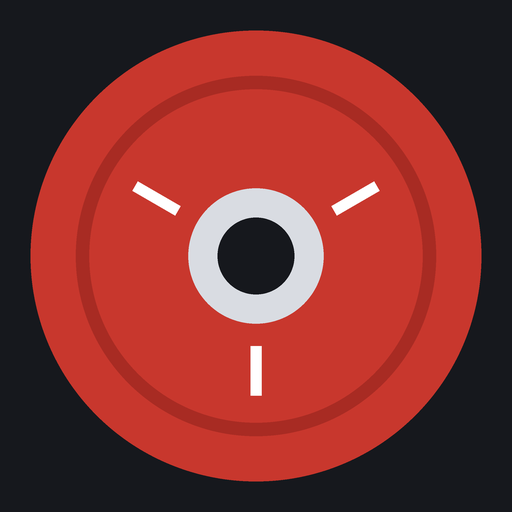
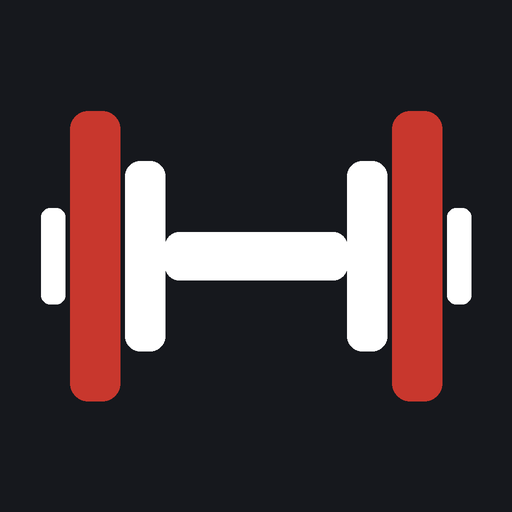
Add files via upload

diff --git a/index.html b/index.html
@@ -120,7 +120,23 @@ body.timing main .wrap{padding-bottom:120px}
 .goal b{font-family:var(--f-mono);font-weight:500;font-size:15px}
 .goal small{grid-column:1/-1;font-size:12px;color:var(--muted)}
 .goal.up b{color:var(--done)}
-.set{display:grid;grid-template-columns:44px 1fr 12px 1fr 34px;align-items:center;gap:6px}
+.set{display:grid;grid-template-columns:44px 1fr 12px 1fr 28px 30px;align-items:center;gap:5px}
+.prb{font-size:10.5px;font-weight:700;color:var(--surface);background:var(--done);border-radius:4px;padding:1px 0;text-align:center;letter-spacing:.02em}
+.field input::placeholder{color:var(--muted);opacity:.55}
+.lastsets{display:flex;flex-wrap:wrap;gap:4px 10px;font-size:12px;color:var(--muted);font-variant-numeric:tabular-nums}
+.lastsets b{font-family:var(--f-mono);font-weight:500;color:var(--ink)}
+.lastsets i{font-style:normal;font-size:11px}
+.drop{font-size:13px;font-weight:500;color:var(--p-B);padding:6px 0}
+.nag{display:flex;flex-wrap:wrap;align-items:center;gap:8px 10px;font-size:13.5px;color:var(--ink);background:var(--surface);border:1px solid var(--warn);border-radius:10px;padding:10px 12px}
+.nag span{flex:1 1 180px}
+.nag button{font-size:12.5px;font-weight:500;border:1px solid var(--line);border-radius:999px;padding:5px 12px}
+.nag .go{background:var(--warn);border-color:var(--warn);color:var(--surface)}
+.prlist{background:var(--surface);border:1px solid var(--line);border-radius:12px;display:grid}
+.prr{display:grid;grid-template-columns:44px 1fr auto;gap:8px;align-items:baseline;padding:8px 12px;border-bottom:1px solid var(--line);font-size:13.5px}
+.prr:last-child{border-bottom:0}
+.prr .d{font-size:12px;color:var(--muted);font-variant-numeric:tabular-nums}
+.prr .v{font-family:var(--f-mono);font-size:12.5px;text-align:right}
+.prr small{display:block;font-size:11.5px;color:var(--muted)}
 .tag{height:30px;border-radius:7px;border:1px solid var(--line);font-family:var(--f-mono);font-size:12px;color:var(--muted)}
 .tag.t-T{border-color:var(--p-A);color:var(--p-A);font-family:var(--f-body);font-weight:700}
 .tag.t-D{border-color:var(--p-B);color:var(--p-B);font-family:var(--f-body);font-weight:700}
@@ -129,7 +145,7 @@ body.timing main .wrap{padding-bottom:120px}
 .field{position:relative;min-width:0}
 .field input{width:100%;font:500 16px var(--f-mono);color:var(--ink);background:var(--bg);border:1px solid var(--line);border-radius:8px;padding:8px 28px 8px 10px;font-variant-numeric:tabular-nums}
 .field small{position:absolute;right:8px;top:50%;transform:translateY(-50%);font-size:11px;color:var(--muted);pointer-events:none}
-.del{width:34px;height:34px;display:grid;place-items:center;color:var(--muted);border-radius:8px}
+.del{width:30px;height:34px;display:grid;place-items:center;color:var(--muted);border-radius:8px}
 .acts{display:flex;align-items:center;gap:12px;flex-wrap:wrap}
 .add{font-size:13.5px;font-weight:500;color:var(--accent);padding:6px 0}
 .tbtn{font-size:12.5px;font-weight:500;border:1px solid var(--line);border-radius:999px;padding:4px 10px;font-variant-numeric:tabular-nums}
@@ -326,15 +342,25 @@ const SESS_DEFAULT=[
   X("s8","덤벨컬","6~8회 × 3 (고중량)","이두 메인",{t:963,r:[6,8],inc:2,rest:90}),
   X("s9","케이블 해머컬","3세트","이두",{t:972,rest:60})]}
 ];
+// 목표 세트 수(sets)와 탑세트 수(top). 영상에 세트 수가 없는 종목은 3세트로 둡니다.
+const DEF_SETS={m1:2,m6:4,t1:2,w3:2,f1:2,f3:4,s1:3},DEF_TOP={m1:1,t1:2,f1:1,s1:2};
+SESS_DEFAULT.forEach(x=>x.ex.forEach(e=>{e.sets=DEF_SETS[e.id]||3;e.top=DEF_TOP[e.id]||0}));
+const DEFMAP={};SESS_DEFAULT.forEach(x=>x.ex.forEach(e=>DEFMAP[e.id]=e));
 const ORDER=["A","B","C","D","E"];
 let SESS=[],SMAP={},EX={},routineCustom=false;
 const fin=n=>typeof n==="number"&&isFinite(n);
+function deriveTop(t){const m=String(t||"").match(/탑\s*(\d)\s*세트/);return m?Math.min(3,Number(m[1])):/탑/.test(t||"")?1:0}
+function deriveSets(t,top){if(top)return top+1;const m=String(t||"").match(/[×x]\s*(\d+)/)||String(t||"").match(/(\d+)\s*세트/);const n=m?Number(m[1]):3;return n>=1&&n<=10?n:3}
+const okInt=(n,a,b)=>Number.isInteger(n)&&n>=a&&n<=b;
 function cleanEx(e){
   if(!e||!e.id||!e.n)return null;
+  const d=DEFMAP[e.id];
+  const top=okInt(e.top,0,3)?e.top:d?d.top:deriveTop(e.tgt);
+  const sets=okInt(e.sets,1,10)?e.sets:d?d.sets:deriveSets(e.tgt,top);
   const r=Array.isArray(e.r)&&e.r.length===2&&e.r.every(n=>fin(n)&&n>0)&&e.r[0]<=e.r[1]?[e.r[0],e.r[1]]:null;
   return {id:String(e.id).slice(0,40),n:String(e.n).slice(0,40),tgt:String(e.tgt||"").slice(0,40),part:String(e.part||"").slice(0,30),note:String(e.note||"").slice(0,80),
     t:fin(e.t)&&e.t>=0?Math.round(e.t):null,r,inc:fin(e.inc)&&e.inc>=0?e.inc:0,rest:fin(e.rest)&&e.rest>0?Math.round(e.rest):90,
-    alts:Array.isArray(e.alts)?e.alts.map(a=>String(a).trim().slice(0,40)).filter(Boolean).slice(0,6):[],del:!!e.del};
+    alts:Array.isArray(e.alts)?e.alts.map(a=>String(a).trim().slice(0,40)).filter(Boolean).slice(0,6):[],sets,top,del:!!e.del};
 }
 function applyRoutine(r){
   let src=SESS_DEFAULT;routineCustom=false;
@@ -344,7 +370,7 @@ function applyRoutine(r){
       ex:x.ex.map(cleanEx).filter(e=>e&&!seen.has(e.id)&&seen.add(e.id))}});
   SMAP={};EX={};SESS.forEach(x=>{SMAP[x.id]=x;x.c="--p-"+x.id;x.ex.forEach(e=>{e.s=x.id;EX[e.id]=e})});
 }
-function routineData(){return {v:1,sessions:SESS.map(x=>({id:x.id,name:x.name,short:x.short,ex:x.ex.map(e=>{const o={id:e.id,n:e.n,tgt:e.tgt,part:e.part,note:e.note,t:e.t,r:e.r,inc:e.inc,rest:e.rest,alts:e.alts};if(e.del)o.del=true;return o})}))}}
+function routineData(){return {v:1,sessions:SESS.map(x=>({id:x.id,name:x.name,short:x.short,ex:x.ex.map(e=>{const o={id:e.id,n:e.n,tgt:e.tgt,part:e.part,note:e.note,t:e.t,r:e.r,inc:e.inc,rest:e.rest,alts:e.alts,sets:e.sets,top:e.top};if(e.del)o.del=true;return o})}))}}
 const activeEx=x=>x.ex.filter(e=>!e.del);
 applyRoutine(null);
 const PREFIX={m:"A",t:"B",w:"C",f:"D",s:"E"}; // 예전(요일 고정) 기록의 종목 id → 세션
@@ -411,6 +437,14 @@ function suggest(e,last){
   return {kg:t.kg,reps:t.reps,why:"지난번 무게·횟수 이상으로"};
 }
 const e1rm=t=>t.kg>0&&t.reps>0?Math.round(t.kg*(1+t.reps/30)*2)/2:0;
+const setE1=x=>e1rm({kg:num(x.kg),reps:num(x.reps)});
+const stepOf=e=>e.inc>0?e.inc:2.5;
+const roundTo=(v,st)=>Math.max(st,Math.round(v/st)*st);
+const BACKOFF=0.875,DROP=0.8;
+// 완료 세트 수: 웜업 제외, 이어진 드롭세트 묶음은 직전 세트에 포함
+function doneCount(list){let n=0;for(const x of list||[]){if(x.tag==="W"||x.tag==="D"||!(num(x.reps)>0))continue;n++}return n}
+function prBase(nm,k,idx){const en=((idx[nm]||{}).entries||[]).filter(x=>x.k<k);let kg=0,e1=0;for(const x of en)for(const q of x.sets){kg=Math.max(kg,num(q.kg));e1=Math.max(e1,setE1(q))}return {has:en.length>0,kg,e1}}
+const isPR=(x,base)=>base.has&&x.tag!=="W"&&num(x.kg)>0&&num(x.reps)>0&&(num(x.kg)>base.kg||setE1(x)>base.e1);
 
 // ---------- 세션 순환 ----------
 function nextSession(k){for(let i=KEYS.length-1;i>=0;i--){const x=KEYS[i];if(x<k&&docs[x].session)return ORDER[(ORDER.indexOf(docs[x].session)+1)%ORDER.length]}return ORDER[0]}
@@ -465,9 +499,17 @@ function renderPicker(k,b){
   return h;
 }
 
+const lsGet=k=>{try{return Number(localStorage.getItem(k))||0}catch(e){return 0}};
+const lsSet=(k,v)=>{try{localStorage.setItem(k,String(v))}catch(e){}};
+function backupNag(){
+  if(!IS_PWA||!KEYS.length||keyOf(view)!==keyOf(today()))return "";
+  const now=Date.now(),last=lsGet("split3-lastbackup");if(lsGet("split3-snooze")>now)return "";
+  const since=last||parseKey(KEYS[0]).getTime();if(now-since<14*864e5)return "";
+  return `<div class="nag"><span>${last?`마지막 백업이 ${Math.floor((now-last)/864e5)}일 전이에요.`:"아직 백업한 적이 없어요."} 기록은 이 휴대폰에만 있어서 백업해 두는 게 안전해요.</span><button class="go" data-act="export">지금 백업</button><button data-act="snooze">3일 뒤에</button></div>`;
+}
 function renderDay(){
-  const app=$("app"),k=keyOf(view),b=body(k);
-  if(!b.session||changing){app.innerHTML=renderPicker(k,b);return}
+  const app=$("app"),k=keyOf(view),b=body(k),nag=backupNag();
+  if(!b.session||changing){app.innerHTML=nag+renderPicker(k,b);return}
   const s=SMAP[b.session],idx=buildIndex(),act=activeEx(s);
   const shown=s.ex.filter(e=>!e.del||b.sets[e.id]||b.checks[e.id]);
   const n=act.filter(e=>b.checks[e.id]).length;
@@ -481,20 +523,25 @@ function renderDay(){
       <button class="chk" data-act="toggle" data-ex="${id}" aria-pressed="${on}" aria-label="${esc(nm)} 완료"><span><svg width="14" height="14" viewBox="0 0 24 24" fill="none" stroke="currentColor" stroke-width="3.2" stroke-linecap="round" stroke-linejoin="round"><path d="M5 12.5l4.5 4.5L19 7.5"/></svg></span></button>
       <div class="info"><span class="name">${esc(nm)}${nm!==e.n?`<span class="orig">(${esc(e.n)} 대신)</span>`:""}${e.del?`<span class="orig">(루틴에서 삭제됨)</span>`:""}</span><span class="meta">${meta}</span>${e.note?`<span class="note">${esc(e.note)}</span>`:""}</div>
       <div class="side">${e.t!=null?`<a class="vid" href="${YT}&t=${e.t}" target="_blank" rel="noopener">▶ ${pad(Math.floor(e.t/60))}:${pad(e.t%60)}</a>`:""}
-        <button class="logbtn" data-act="expand" data-ex="${id}" aria-expanded="${isOpen}">기록${my.length?` <span class="n">${my.length}</span>`:""}</button></div></div>`;
+        <button class="logbtn" data-act="expand" data-ex="${id}" aria-expanded="${isOpen}">${my.length?`세트 <span class="n">${doneCount(my)}/${e.sets}</span>`:`기록 · ${e.sets}세트`}</button></div></div>`;
     if(isOpen){
       const best=((idx[nm]||{}).entries||[]).reduce((m,x)=>Math.max(m,topSet(x.sets).kg),0);
       const vol=my.filter(x=>x.tag!=="W").reduce((a,x)=>a+num(x.kg)*num(x.reps),0);
-      h+=`<div class="sets"><div class="hist">${last?`지난번 ${md(last.k)} <b>${fmtSet(topSet(last.sets))}</b> · ${last.sets.length}세트`:"지난 기록 없음"}${best?` · 최고 <b>${fmt(best)}kg</b>`:""}</div>`;
-      if(sg)h+=`<div class="goal${sg.up?" up":""}"><span>오늘 목표</span><b>${fmtSet(sg)}</b><small>${esc(sg.why)}</small></div>`;
-      my.forEach((x,i)=>{h+=`<div class="set">
+      const base=prBase(nm,k,idx);
+      h+=`<div class="sets"><div class="hist">${last?`지난번 ${md(last.k)} · ${last.sets.length}세트`:"지난 기록 없음"}${best?` · 최고 <b>${fmt(best)}kg</b>`:""} · 오늘 <b>${doneCount(my)}/${e.sets}</b>세트</div>`;
+      if(last)h+=`<div class="lastsets">${last.sets.map((q,j)=>`<span><i>${q.tag?TAG[q.tag]:j+1}</i> <b>${fmtSet({kg:num(q.kg),reps:num(q.reps)})}</b></span>`).join("")}</div>`;
+      if(sg)h+=`<div class="goal${sg.up?" up":""}"><span>오늘 목표</span><b>${e.top?"탑 ":""}${fmtSet(sg)}</b><small>${esc(sg.why)}${e.top&&sg.kg>0?` · 백오프는 약 ${fmt(roundTo(sg.kg*BACKOFF,stepOf(e)))}kg`:""}</small></div>`;
+      let j=0;
+      my.forEach((x,i)=>{const g=x.tag==="W"?null:(last&&last.sets[j])||null;if(x.tag!=="W")j++;const pr=isPR(x,base);
+        h+=`<div class="set">
         <button class="tag t-${x.tag||"N"}" data-act="tag" data-ex="${id}" data-i="${i}" aria-label="${i+1}세트 종류 바꾸기">${x.tag?TAG[x.tag]:i+1}</button>
-        <label class="field"><input id="kg-${k}-${id}-${i}" inputmode="decimal" enterkeyhint="next" data-act="kg" data-ex="${id}" data-i="${i}" value="${esc(x.kg)}" aria-label="${i+1}세트 중량"><small>kg</small></label>
+        <label class="field"><input id="kg-${k}-${id}-${i}" inputmode="decimal" enterkeyhint="next" data-act="kg" data-ex="${id}" data-i="${i}" value="${esc(x.kg)}" placeholder="${g&&num(g.kg)>0?esc(fmt(num(g.kg))):""}" aria-label="${i+1}세트 중량"><small>kg</small></label>
         <span class="x">×</span>
-        <label class="field"><input id="rp-${k}-${id}-${i}" inputmode="numeric" enterkeyhint="done" data-act="reps" data-ex="${id}" data-i="${i}" value="${esc(x.reps)}" aria-label="${i+1}세트 횟수"><small>회</small></label>
+        <label class="field"><input id="rp-${k}-${id}-${i}" inputmode="numeric" enterkeyhint="done" data-act="reps" data-ex="${id}" data-i="${i}" value="${esc(x.reps)}" placeholder="${g&&num(g.reps)>0?esc(num(g.reps)):sg&&sg.reps?esc(sg.reps):""}" aria-label="${i+1}세트 횟수"><small>회</small></label>
+        ${pr?`<span class="prb" title="신기록">PR</span>`:"<span></span>"}
         <button class="del" data-act="delset" data-ex="${id}" data-i="${i}" aria-label="${i+1}세트 삭제"><svg width="16" height="16" viewBox="0 0 24 24" fill="none" stroke="currentColor" stroke-width="2" stroke-linecap="round"><path d="M6 6l12 12M18 6L6 18"/></svg></button></div>`});
-      h+=`<div class="acts"><button class="add" data-act="addset" data-ex="${id}">+ 세트 추가</button><button class="tbtn" data-act="timer" data-ex="${id}">⏱ ${mmss(e.rest)} 휴식</button>${vol?`<span class="vol">볼륨 ${vol.toLocaleString()}kg</span>`:""}</div>`;
-      if(my.length)h+=`<div class="legend">세트 번호를 누르면 탑 → 드롭 → 웜업으로 바뀌어요. 웜업은 볼륨·최고 기록에서 빠져요. 횟수를 입력하면 휴식 타이머가 자동으로 시작돼요.</div>`;
+      h+=`<div class="acts"><button class="add" data-act="addset" data-ex="${id}">+ 세트 추가</button>${my.length?`<button class="drop" data-act="adddrop" data-ex="${id}">+ 드롭</button>`:""}<button class="tbtn" data-act="timer" data-ex="${id}">⏱ ${mmss(e.rest)}</button>${vol?`<span class="vol">볼륨 ${vol.toLocaleString()}kg</span>`:""}</div>`;
+      if(my.length)h+=`<div class="legend">${e.top?`탑세트 다음 세트는 백오프 무게(탑의 약 ${Math.round(BACKOFF*1000)/10}%)로, `:""}'+ 드롭'은 직전 세트의 약 ${DROP*100}% 무게로 채워져요. 무게는 미리 채워지고, 횟수는 한 만큼 입력하면 돼요(흐린 숫자는 지난번 같은 세트). 세트 번호를 누르면 탑 → 드롭 → 웜업으로 바뀌고, 웜업·드롭은 세트 수에서 빠져요.</div>`;
       const opts=[e.n,...e.alts];if(!opts.includes(nm))opts.push(nm);
       h+=`<div class="alt"><span>기구가 없으면 교체</span>${opts.map(v=>`<button class="chip${v===nm?" on":""}" data-act="setalt" data-ex="${id}" data-v="${esc(v)}">${esc(v)}</button>`).join("")}
         <span class="altc"><input id="alt-${k}-${id}" placeholder="다른 종목 직접 입력" enterkeyhint="done" aria-label="교체할 종목 이름"><button data-act="altcustom" data-ex="${id}">적용</button></span></div>
@@ -503,7 +550,7 @@ function renderDay(){
     h+=`</div>`;
   }
   h+=`</div><button class="addex" data-act="newex" data-s="${s.id}">+ 이 세션에 종목 추가</button><div class="memo"><label for="memo-${k}">메모</label><textarea id="memo-${k}" data-act="memo" placeholder="컨디션, 통증, 다음에 바꿀 점">${esc(b.memo)}</textarea></div>`;
-  app.innerHTML=h;
+  app.innerHTML=nag+h;
 }
 
 function spark(vals,c){
@@ -517,6 +564,10 @@ function renderProgress(){
   const idx=buildIndex(),tk=keyOf(today()),from=keyOf(addDays(today(),-27));
   const done=KEYS.filter(k=>k<=tk&&docs[k].session),d28=done.filter(k=>k>=from);
   let h=`<div class="stats"><div class="stat"><b>${done.length}</b><span>총 운동</span></div><div class="stat"><b>${d28.length}</b><span>최근 4주</span></div><div class="stat"><b>${(d28.length/4).toFixed(1)}</b><span>주 평균 (목표 5)</span></div></div>`;
+  const prs=[];for(const [nm,o] of Object.entries(idx)){let bk=0,be=0;o.entries.forEach((x,i)=>{let tk2=0,te=0,tset=null,eset=null;for(const q of x.sets){if(num(q.kg)>tk2){tk2=num(q.kg);tset=q}if(setE1(q)>te){te=setE1(q);eset=q}}
+    if(i>0){if(tk2>bk)prs.push({k:x.k,nm,s:tset,kind:"최고 무게",c:SMAP[o.sess].c});else if(te>be)prs.push({k:x.k,nm,s:eset,kind:`추정 1RM ${fmt(te)}kg`,c:SMAP[o.sess].c})}bk=Math.max(bk,tk2);be=Math.max(be,te)})}
+  prs.sort((a,b)=>a.k<b.k?1:a.k>b.k?-1:0);
+  h+=`<div class="sec"><h3>최근 신기록</h3>${prs.length?`<div class="prlist">${prs.slice(0,8).map(x=>`<div class="prr"><span class="d">${md(x.k)}</span><span>${esc(x.nm)}<small>${x.kind}</small></span><span class="v">${fmtSet({kg:num(x.s.kg),reps:num(x.s.reps)})}</span></div>`).join("")}</div>`:`<p class="hint">같은 종목을 두 번 이상 기록하면, 지난번보다 무거운 무게나 더 높은 추정 1RM을 낸 세트가 여기 모여요.</p>`}</div>`;
   const cnt=SESS.map(s=>d28.filter(k=>docs[k].session===s.id).length),mx=Math.max(4,...cnt);
   h+=`<div class="sec"><h3>최근 4주 부위 균형</h3><div class="bal">`;
   SESS.forEach((s,i)=>{const x=lastDone(s.id,keyOf(addDays(today(),1)));const g=x?diffDays(x,tk):null;
@@ -546,13 +597,13 @@ function renderProgress(){
     h+=`</div>`;
   }
   h+=`</div>`;
-  if(IS_PWA)h+=`<div class="sec"><h3>백업</h3><p class="hint">기록은 이 휴대폰 안에만 있어요. 가끔 백업 파일을 저장해 두면 휴대폰을 바꿔도 되살릴 수 있어요.</p><div class="backup"><button data-act="export">기록 백업 파일 저장</button><label for="importFile">백업 파일 불러오기</label></div></div>`;
+  if(IS_PWA){const lb=lsGet("split3-lastbackup");h+=`<div class="sec"><h3>백업</h3><p class="hint">기록은 이 휴대폰 안에만 있어요. 마지막 백업: <b>${lb?`${md(keyOf(new Date(lb)))} (${agoText(Math.floor((Date.now()-lb)/864e5))})`:"아직 없음"}</b>. 2주가 지나면 운동 화면에서 알려 드려요.</p><div class="backup"><button data-act="export">기록 백업 파일 저장</button><label for="importFile">백업 파일 불러오기</label></div></div>`}
   $("app").innerHTML=h;
 }
 
 // ---------- 루틴 편집 ----------
 let rsel="A",edState=null;
-function exMeta(e){return [e.tgt,e.part,e.r?`목표 ${e.r[0]}~${e.r[1]}회${e.inc?` · +${fmt(e.inc)}kg`:""}`:"",`휴식 ${mmss(e.rest)}`].filter(Boolean).map(esc).join(" · ")}
+function exMeta(e){return [`${e.sets}세트${e.top?` (탑 ${e.top})`:""}`,e.tgt,e.part,e.r?`목표 ${e.r[0]}~${e.r[1]}회${e.inc?` · +${fmt(e.inc)}kg`:""}`:"",`휴식 ${mmss(e.rest)}`].filter(Boolean).map(esc).join(" · ")}
 function renderRoutine(){
   const s=SMAP[rsel],act=activeEx(s);
   let h=`<div class="rsess" role="tablist">${SESS.map(x=>`<button class="rs${x.id===rsel?" on":""}" style="--c:var(${x.c})" data-act="rsel" data-s="${x.id}" aria-selected="${x.id===rsel}">${esc(x.short)}</button>`).join("")}</div>`;
@@ -584,13 +635,15 @@ function openEditor(st){
   if(st.kind==="sess"){const s=SMAP[st.sid];$("edTitle").textContent="세션 이름 바꾸기";$("edDel").hidden=true;
     f=fld("ed-sname","세션 이름",s.name,'maxlength="30" autocomplete="off"')+fld("ed-sshort","짧은 이름 (최대 4자)",s.short,'maxlength="4" autocomplete="off"',"주간 달력과 기록 탭에 표시돼요");
   }else{
-    const e=st.id?EX[st.id]:{n:"",tgt:"",part:"",note:"",t:null,r:null,inc:0,rest:90,alts:[]};
+    const e=st.id?EX[st.id]:{n:"",tgt:"",part:"",note:"",t:null,r:null,inc:0,rest:90,alts:[],sets:3,top:0};
     $("edTitle").textContent=st.id?"종목 수정":`${SMAP[st.sid].name}에 종목 추가`;$("edDel").hidden=!st.id;
     f=fld("ed-n","종목 이름 *",e.n,'maxlength="40" autocomplete="off" enterkeyhint="next"')
      +fld("ed-tgt","목표 (화면 표시용)",e.tgt,'maxlength="40" placeholder="예: 10~12회 × 3" autocomplete="off"')
      +fld("ed-part","타깃 부위",e.part,'maxlength="30" placeholder="예: 광배" autocomplete="off"')
      +`<div class="efrow">${fld("ed-lo","반복 최소",e.r?e.r[0]:"",'inputmode="numeric" placeholder="예: 8"')}${fld("ed-hi","반복 최대",e.r?e.r[1]:"",'inputmode="numeric" placeholder="예: 12"')}${fld("ed-inc","증량 kg",e.inc||"",'inputmode="decimal" placeholder="예: 2.5"')}</div>`
      +`<small style="font-size:11.5px;color:var(--muted);margin-top:-6px">반복 범위를 넣으면 '오늘 목표'를 계산해요. 최대 횟수에 닿으면 증량 kg만큼 올리라고 제안해요.</small>`
+     +`<div class="efrow" style="grid-template-columns:1fr 1fr">${fld("ed-sets","목표 세트 수",e.sets,'inputmode="numeric" placeholder="3"')}<label class="ef" for="ed-top"><span>탑세트 수</span><select id="ed-top">${[0,1,2,3].map(v=>`<option value="${v}"${v===e.top?" selected":""}>${v?v+"세트":"없음"}</option>`).join("")}</select></label></div>`
+     +`<small style="font-size:11.5px;color:var(--muted);margin-top:-6px">목표 세트를 채우면 자동으로 완료 체크돼요. 탑세트를 정하면 첫 세트가 탑으로 표시되고, 그다음 세트는 백오프 무게로 채워져요.</small>`
      +`<label class="ef" for="ed-rest"><span>세트 사이 휴식</span><select id="ed-rest">${[...new Set([...REST_OPTS,e.rest])].sort((a,b)=>a-b).map(v=>`<option value="${v}"${v===e.rest?" selected":""}>${mmss(v)}</option>`).join("")}</select></label>`
      +fld("ed-alts","대체 종목 (쉼표로 구분)",e.alts.join(", "),'maxlength="200" placeholder="예: 바벨로우, 덤벨로우" autocomplete="off"',"기구가 차 있을 때 바로 바꿀 수 있어요")
      +fld("ed-note","메모",e.note,'maxlength="80" placeholder="예: 마지막 세트 드롭세트" autocomplete="off"')
@@ -614,7 +667,8 @@ $("edForm").addEventListener("submit",ev=>{
   if(lo||hi){const a=Number(lo),b=Number(hi);if(!(a>0&&b>0&&Number.isInteger(a)&&Number.isInteger(b)&&a<=b)){edErr("반복 범위는 최소·최대를 둘 다 정수로, 최소 ≤ 최대가 되게 넣어 주세요.");return}r=[a,b]}
   const incS=v("ed-inc").replace(",",".");const inc=incS===""?0:Number(incS);if(!(inc>=0)||inc>50){edErr("증량 kg은 0~50 사이 숫자로 넣어 주세요.");return}
   const tS=v("ed-t");let t=null;if(tS){const m=tS.match(/^(\d{1,2}):?(\d{2})$/);if(!m||Number(m[2])>59){edErr("영상 위치는 07:20처럼 분:초로 넣어 주세요.");return}t=Number(m[1])*60+Number(m[2])}
-  const fields={n,tgt:v("ed-tgt"),part:v("ed-part"),note:v("ed-note"),r,inc,rest:Number($("ed-rest").value)||90,t,alts:v("ed-alts").split(/[,，]/).map(x=>x.trim()).filter(x=>x&&x!==n)};
+  const setsN=Number(v("ed-sets")||3);if(!okInt(setsN,1,10)){edErr("목표 세트 수는 1~10 사이 정수로 넣어 주세요.");return}
+  const fields={sets:setsN,top:Number($("ed-top").value)||0,n,tgt:v("ed-tgt"),part:v("ed-part"),note:v("ed-note"),r,inc,rest:Number($("ed-rest").value)||90,t,alts:v("ed-alts").split(/[,，]/).map(x=>x.trim()).filter(x=>x&&x!==n)};
   if(edState.id){Object.assign(EX[edState.id],fields);toast("종목을 수정했어요")}
   else{const id="u"+Date.now().toString(36)+Math.random().toString(36).slice(2,6);SMAP[sid].ex.push({id,...fields});toast(`${n}을(를) 추가했어요`)}
   closeEditor();saveRoutine();
@@ -683,6 +737,9 @@ function tick(){
 setInterval(()=>{if(timer)tick()},250);
 function restoreTimer(){try{const t=JSON.parse(localStorage.getItem("split3-timer")||"null");if(t&&t.end>Date.now()-15000){timer=t;tick()}}catch(e){}}
 
+// 목표 세트 수를 채우는 순간 완료 체크 (직접 해제하면 다시 체크하지 않음)
+function autoCheck(b,id,before){const e=EX[id],after=doneCount(b.sets[id]);if(e&&before<e.sets&&after>=e.sets&&!b.checks[id]){b.checks[id]=true;return true}return false}
+
 // ---------- 입력 ----------
 document.addEventListener("click",ev=>{
   const t=ev.target.closest("[data-act]");if(!t||t.tagName==="INPUT"||t.tagName==="TEXTAREA")return;
@@ -698,6 +755,7 @@ document.addEventListener("click",ev=>{
   if(act==="tstop"){stopTimer();return}
   if(act==="timer"){const b=body(k);startTimer(EX[id].rest,exName(id,b));return}
   if(act==="export"){exportBackup();return}
+  if(act==="snooze"){lsSet("split3-snooze",Date.now()+3*864e5);render();return}
   if(act==="rsel"){rsel=t.dataset.s;render();return}
   if(act==="editsess"){openEditor({kind:"sess",sid:rsel});return}
   if(act==="editex"){openEditor({kind:"ex",id});return}
@@ -722,17 +780,27 @@ document.addEventListener("click",ev=>{
     return;
   }
   if(act==="toggle"){if(b.checks[id])delete b.checks[id];else b.checks[id]=true;persist(k,b);return}
-  if(act==="addset"){
-    const list=b.sets[id]||(b.sets[id]=[]),nm=exName(id,b);
-    let kg="",reps="";
-    if(list.length){const p=list[list.length-1];kg=p.kg;reps=p.reps}
-    else{const en=((buildIndex()[nm]||{}).entries||[]).filter(x=>x.k<k),sg=suggest(EX[id],en[en.length-1]);if(sg){kg=sg.kg>0?sg.kg:"";reps=sg.reps||""}}
-    list.push({kg,reps});persist(k,b);
+  if(act==="addset"||act==="adddrop"){
+    const e=EX[id],list=b.sets[id]||(b.sets[id]=[]),nm=exName(id,b),st=stepOf(e);
+    const p=list[list.length-1],tops=list.filter(x=>x.tag==="T").length;
+    const fromSuggest=()=>{const en=((buildIndex()[nm]||{}).entries||[]).filter(x=>x.k<k),l=en[en.length-1],sg=suggest(e,l);if(sg)return {kg:sg.kg>0?sg.kg:"",reps:sg.reps||""};return {kg:"",reps:""}};
+    let row;
+    if(act==="adddrop"){if(!p)return;row={kg:num(p.kg)>0?roundTo(num(p.kg)*DROP,st):p.kg,reps:p.reps,tag:"D"}}
+    else if(!p){row=fromSuggest();if(e.top)row.tag="T"}
+    else if(p.tag==="W"){row=e.top&&!tops?{...fromSuggest(),tag:"T"}:{kg:p.kg,reps:p.reps}}
+    else if(p.tag==="T"&&tops<e.top){row={kg:p.kg,reps:p.reps,tag:"T"}}
+    else if(p.tag==="T"){row={kg:num(p.kg)>0?roundTo(num(p.kg)*BACKOFF,st):p.kg,reps:num(p.reps)>0?num(p.reps)+2:p.reps}}
+    else if(p.tag==="D"){const q=[...list].reverse().find(x=>x.tag!=="D"&&x.tag!=="W")||p;row={kg:q.kg,reps:q.reps}}
+    else row={kg:p.kg,reps:p.reps};
+    row.reps="";  // 횟수는 실제로 한 만큼 직접 입력 (입력하는 순간 세트 완료·타이머·신기록 판정)
+    list.push(row);persist(k,b);
     requestAnimationFrame(()=>{const el=$(`kg-${k}-${id}-${list.length-1}`);if(el){el.focus();el.select&&el.select()}});
     return;
   }
   if(act==="delset"){const list=b.sets[id]||[];list.splice(Number(t.dataset.i),1);if(!list.length)delete b.sets[id];persist(k,b);return}
-  if(act==="tag"){const s=(b.sets[id]||[])[Number(t.dataset.i)];if(!s)return;const nt=TAG_NEXT[s.tag||""];if(nt)s.tag=nt;else delete s.tag;persist(k,b);return}
+  if(act==="tag"){const list=b.sets[id]||[],i=Number(t.dataset.i),s=list[i];if(!s)return;const before=doneCount(list);const nt=TAG_NEXT[s.tag||""];if(nt)s.tag=nt;else delete s.tag;
+    const pv=list[i-1];if(s.tag==="D"&&pv&&num(pv.kg)>0&&num(s.kg)===num(pv.kg))s.kg=roundTo(num(pv.kg)*DROP,stepOf(EX[id]));
+    if(autoCheck(b,id,before))toast(`${exName(id,b)} ${EX[id].sets}세트 완료`);persist(k,b);return}
   if(act==="setalt"){const v=t.dataset.v;if(v===EX[id].n)delete b.alts[id];else b.alts[id]=v;persist(k,b);return}
   if(act==="altcustom"){const v=($(`alt-${k}-${id}`).value||"").trim().slice(0,40);if(!v){toast("교체할 종목 이름을 입력해 주세요");return}
     document.activeElement&&document.activeElement.blur&&document.activeElement.blur();b.alts[id]=v;persist(k,b);return}
@@ -746,8 +814,13 @@ document.addEventListener("change",ev=>{
   const v=t.value.trim().replace(",",".");const n=v===""?"":Number(v);
   if(v!==""&&(!isFinite(n)||n<0)){t.value=s[t.dataset.act]??"";return}
   if(s[t.dataset.act]===n)return;
-  s[t.dataset.act]=n;persist(k,b,true);
-  if(t.dataset.act==="reps"&&n>0&&s.tag!=="W")startTimer(EX[id].rest,exName(id,b));
+  const nm=exName(id,b),base=prBase(nm,k,buildIndex()),wasPR=isPR(s,base),before=doneCount(list);
+  s[t.dataset.act]=n;
+  const nowPR=isPR(s,base),done=autoCheck(b,id,before);
+  persist(k,b,true);
+  if(nowPR&&!wasPR)toast(`신기록! ${nm} ${fmtSet({kg:num(s.kg),reps:num(s.reps)})}${done?` · ${EX[id].sets}세트 완료`:""}`);
+  else if(done)toast(`${nm} ${EX[id].sets}세트 완료`);
+  if(t.dataset.act==="reps"&&n>0&&s.tag!=="W")startTimer(EX[id].rest,nm);
 });
 document.addEventListener("keydown",ev=>{
   const t=ev.target;if(ev.key!=="Enter"||!t.id)return;
@@ -759,10 +832,10 @@ document.addEventListener("focusout",()=>setTimeout(()=>{if(pendingRender)render
 async function exportBackup(){
   const data=JSON.stringify({app:"split3-log",version:3,exportedAt:new Date().toISOString(),days:docs,routine:routineCustom?routineData():null});
   const name=`운동일지-백업-${keyOf(today())}.json`,file=new File([data],name,{type:"application/json"});
-  try{if(navigator.canShare&&navigator.canShare({files:[file]})){await navigator.share({files:[file],title:name});toast("백업 파일을 공유했어요");return}}
+  try{if(navigator.canShare&&navigator.canShare({files:[file]})){await navigator.share({files:[file],title:name});lsSet("split3-lastbackup",Date.now());toast("백업 파일을 저장했어요");render();return}}
   catch(e){if(e&&e.name==="AbortError")return}
   const a=document.createElement("a");a.href=URL.createObjectURL(file);a.download=name;document.body.appendChild(a);a.click();
-  setTimeout(()=>{URL.revokeObjectURL(a.href);a.remove()},1000);toast("백업 파일을 저장했어요");
+  setTimeout(()=>{URL.revokeObjectURL(a.href);a.remove()},1000);lsSet("split3-lastbackup",Date.now());toast("백업 파일을 저장했어요");render();
 }
 $("importFile").addEventListener("change",async ev=>{
   const f=ev.target.files&&ev.target.files[0];ev.target.value="";if(!f||!backend||!backend.saveAll)return;

diff --git a/sw.js b/sw.js
@@ -1,6 +1,6 @@
 // 운동일지 오프라인 지원: 앱 파일을 저장해 두고, 인터넷이 없어도 열리게 합니다.
 // 앱을 수정해서 다시 올릴 때는 아래 버전 숫자를 하나 올려 주세요.
-const CACHE = "split3-v3";
+const CACHE = "split3-v5";
 const SHELL = ["./", "./index.html", "./manifest.webmanifest",
   "./icons/apple-touch-icon.png", "./icons/icon-192.png", "./icons/icon-512.png"];
 

diff --git a/README.md b/README.md
@@ -6,6 +6,11 @@
   고르지 않은 날은 휴식이고, 다음 추천은 마지막으로 한 세션 다음부터 이어져요. 3일 연속 운동하면 휴식을 권해요.
 - **세션 변경**: 이미 고른 세션은 "세션 변경"으로 바꾸거나 휴식으로 돌릴 수 있어요.
 - **오늘 목표**: 지난 기록을 보고 다음 목표를 제안해요. 목표 반복 상단에 도달하면 증량(예: 벤치 8회 → +5kg), 아니면 같은 무게로 1회 더.
+- **세트 목표**: 종목마다 목표 세트 수가 있고(루틴 탭에서 변경), 횟수를 입력해 목표를 채우면 자동으로 완료 체크돼요.
+- **백오프·드롭 자동 무게**: 탑세트 다음 세트는 탑의 약 87.5%, '+ 드롭'은 직전 세트의 약 80% 무게로 채워져요. 횟수는 한 만큼 직접 입력해요.
+- **지난번 세트 비교**: 지난번에 한 세트 전체가 위에 보이고, 입력 칸에 지난번 같은 세트 숫자가 흐리게 표시돼요.
+- **신기록(PR)**: 지난 기록보다 무겁거나 추정 1RM이 높은 세트에 PR 표시가 붙고, 기록 탭 '최근 신기록'에 모여요.
+- **백업 알림**: 마지막 백업 후 2주가 지나면 운동 화면 위에 알려 드려요.
 - **휴식 타이머**: 횟수를 입력하면 종목별 휴식 시간(메인 2:30, 보조 1:00~1:30) 타이머가 자동으로 시작돼요. 끝나면 소리가 나요(무음 모드에서는 안 들릴 수 있어요).
 - **세트 종류**: 세트 번호를 누르면 탑 → 드롭 → 웜업. 웜업 세트는 볼륨·최고 기록에서 빠져요.
 - **종목 교체**: 기구가 차 있으면 대체 종목(영상에 나온 것)이나 직접 입력한 종목으로 바꿔요. 기록은 종목 이름별로 따로 쌓여요.
@@ -46,7 +51,7 @@
 - **백업**: 백업 파일에는 기록과 직접 바꾼 루틴이 함께 들어가요. "기록 백업 파일 저장"을 누르면 공유 창이 뜹니다. "파일에 저장"이나 메모, 카톡 나에게 보내기 등으로 보관하세요.
   휴대폰을 바꾸거나 앱을 지웠다 다시 깔았을 때 "백업 파일 불러오기"로 되살릴 수 있어요.
 - **루틴 수정은 앱 안에서**: 종목 추가·수정·삭제는 루틴 탭에서 하면 되고, 코드를 고칠 필요가 없어요.
-  코드(`index.html`)를 직접 고쳐서 다시 올릴 때만 `sw.js` 맨 위의 `split3-v3`을 `split3-v4`처럼 숫자를 올려 주세요.
+  코드(`index.html`)를 직접 고쳐서 다시 올릴 때만 `sw.js` 맨 위의 `split3-v5`을 `split3-v6`처럼 숫자를 올려 주세요.
 - 루틴 출처: 이도황 「더 큰 프레임과 사이즈를 위한 3분할 루틴」 https://www.youtube.com/watch?v=hIJhYHw7vSA
 
 ## 업데이트하는 방법 (이미 올려 둔 경우)
@@ -55,3 +60,14 @@
 2. 새 압축 파일의 `index.html`, `sw.js`, `README.md`를 끌어다 놓고 **Commit changes**를 누릅니다. (같은 이름은 덮어써져요)
 3. 1~2분 뒤 휴대폰에서 앱을 열었다 완전히 닫고 다시 열면 새 버전이 나와요.
    기존 기록은 그대로 남고, 예전 요일별 기록은 해당 세션으로 자동 인식됩니다.
+
+## 아이콘을 바꿨을 때
+
+아이폰은 홈 화면에 추가하는 순간의 아이콘을 계속 써요. 새 아이콘으로 바꾸려면 다시 추가해야 하는데,
+**홈 화면 앱을 지우면 그 안의 기록도 함께 지워지니** 꼭 아래 순서대로 하세요.
+
+1. 앱 → 기록 탭 → 맨 아래 **기록 백업 파일 저장** → '파일에 저장'으로 보관
+2. GitHub에 `icons` 폴더와 `sw.js`를 올리고 1~2분 기다리기
+3. 홈 화면 아이콘 길게 누르기 → 앱 삭제
+4. Safari로 주소 다시 열기 → 공유 → 홈 화면에 추가
+5. 새 앱 → 기록 탭 → **백업 파일 불러오기** → 1번 파일 선택 (기록과 직접 바꾼 루틴이 모두 돌아와요)
